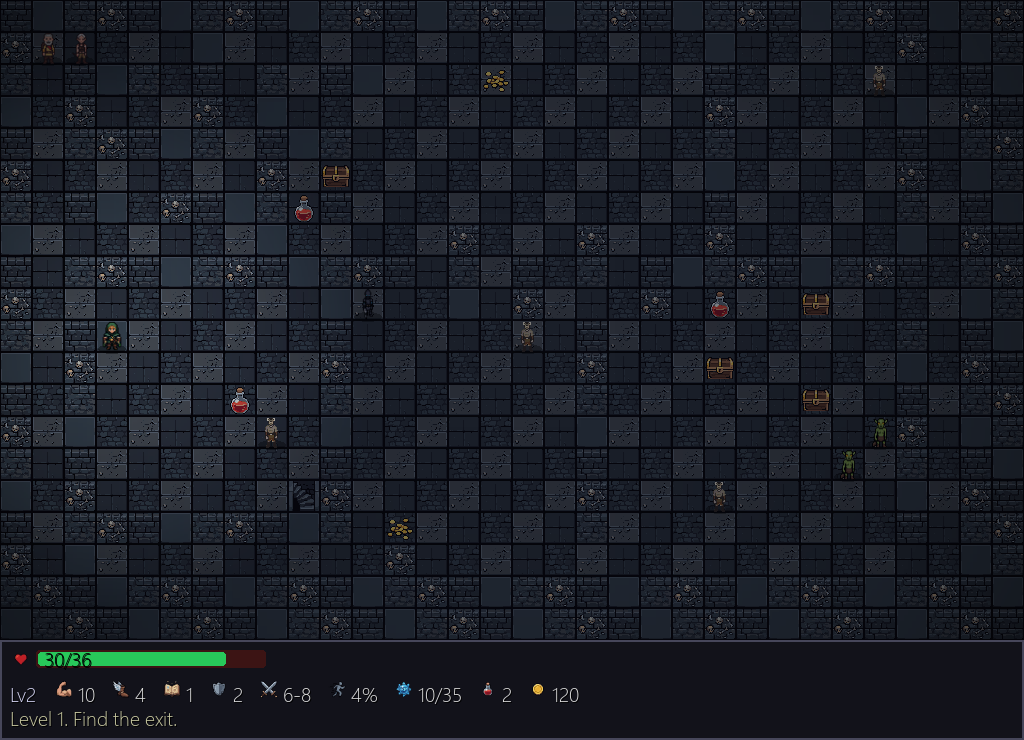
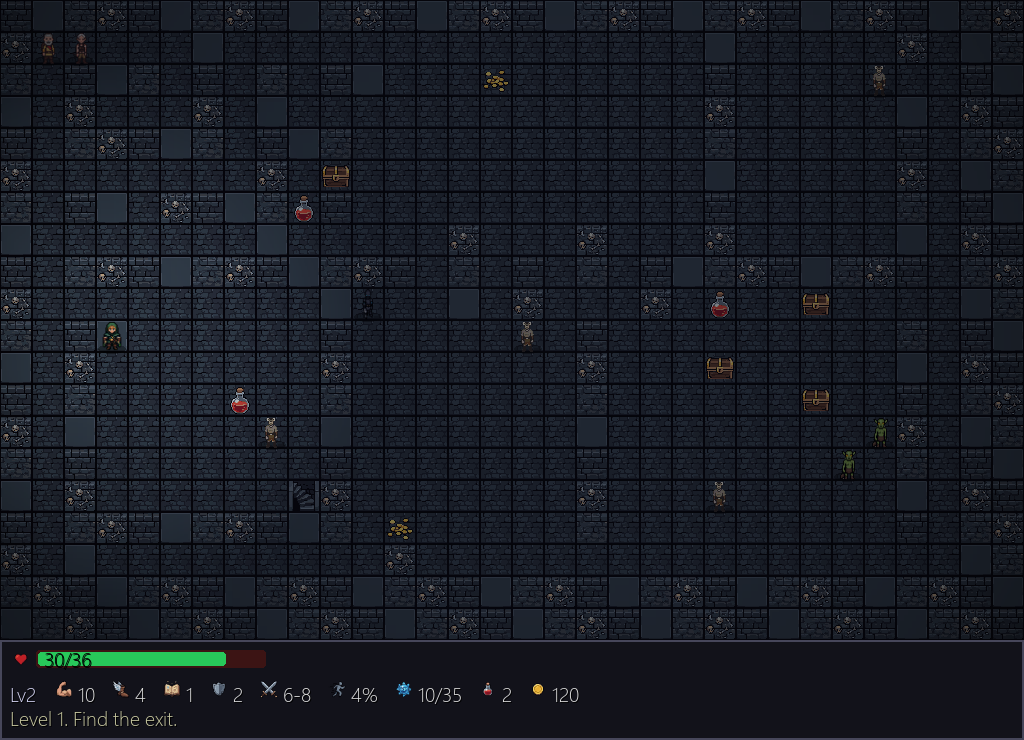
Use one uniform floor sprite per level
Mixing floor variants per tile read as different terrain and was confusing;
draw_map now picks a single floor sprite for the whole level (chosen by depth,
so levels still differ). Walls keep their variants.

diff --git a/lemond_pygame/render.py b/lemond_pygame/render.py
@@ -218,14 +218,14 @@ def draw_map(
     npc_anim=None,
 ) -> None:
     floors = tiles["floor_variants"]
-    nfloor = len(floors)
     walls = tiles["wall_variants"]
     nwall = len(walls)
+    floor = floors[d.depth % len(floors)]  # one floor sprite per level, varies by depth
     stairs_up = tiles.get("stairs_up")
     for y in range(d.h):
         for x in range(d.w):
             r = pg.Rect(x * cfg.TILE, y * cfg.TILE, cfg.TILE, cfg.TILE)
-            surface.blit(floors[(x * 7 + y * 13) % nfloor], r)
+            surface.blit(floor, r)
             t = d.grid[y][x]
             if t == WALL:
                 surface.blit(walls[(x * 5 + y * 11) % nwall], r)
